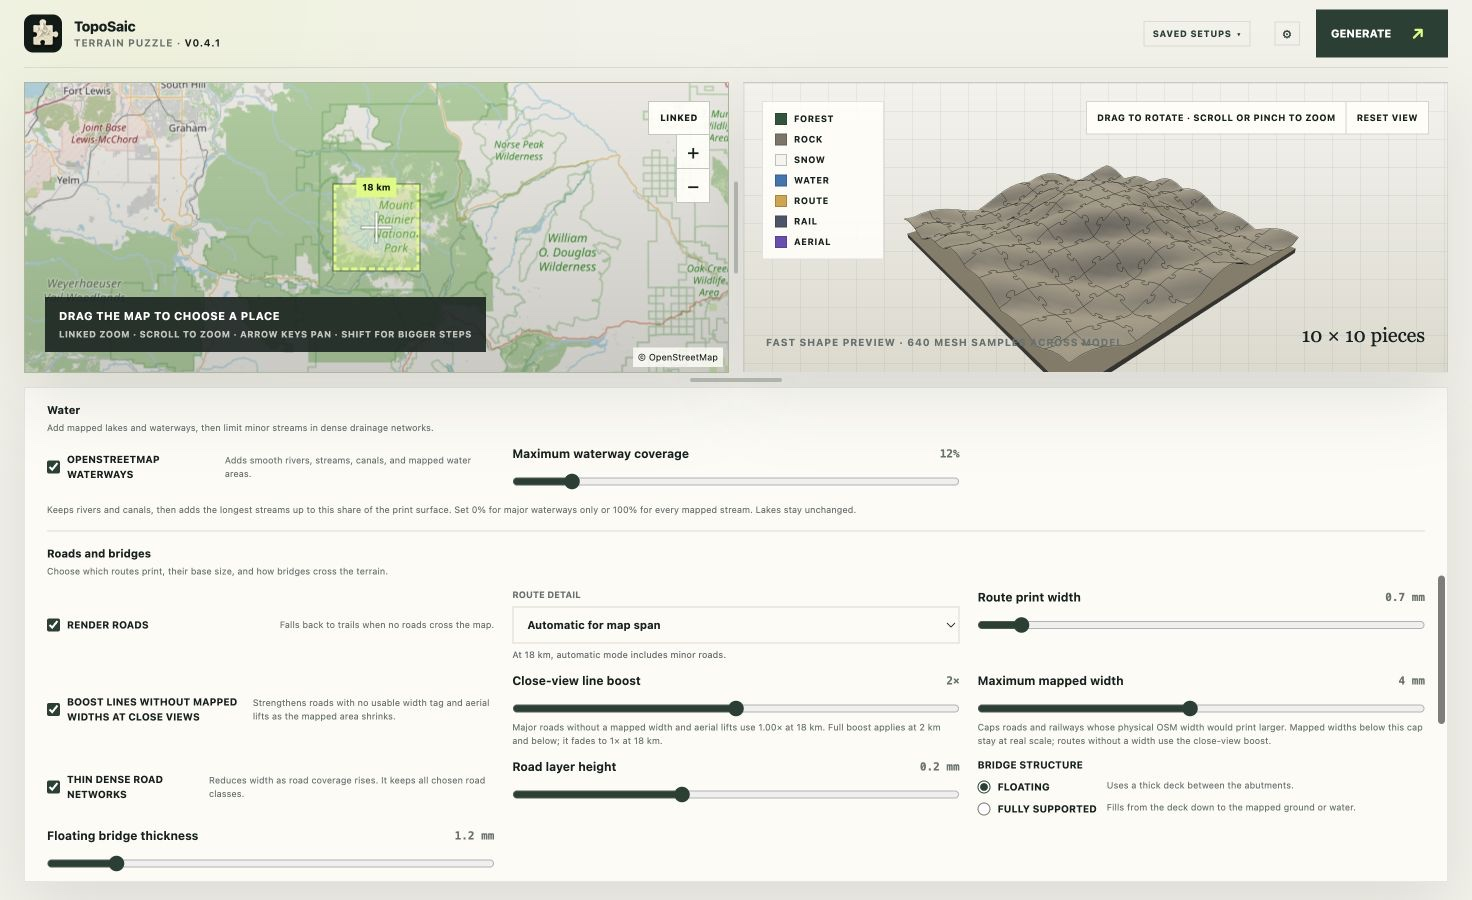
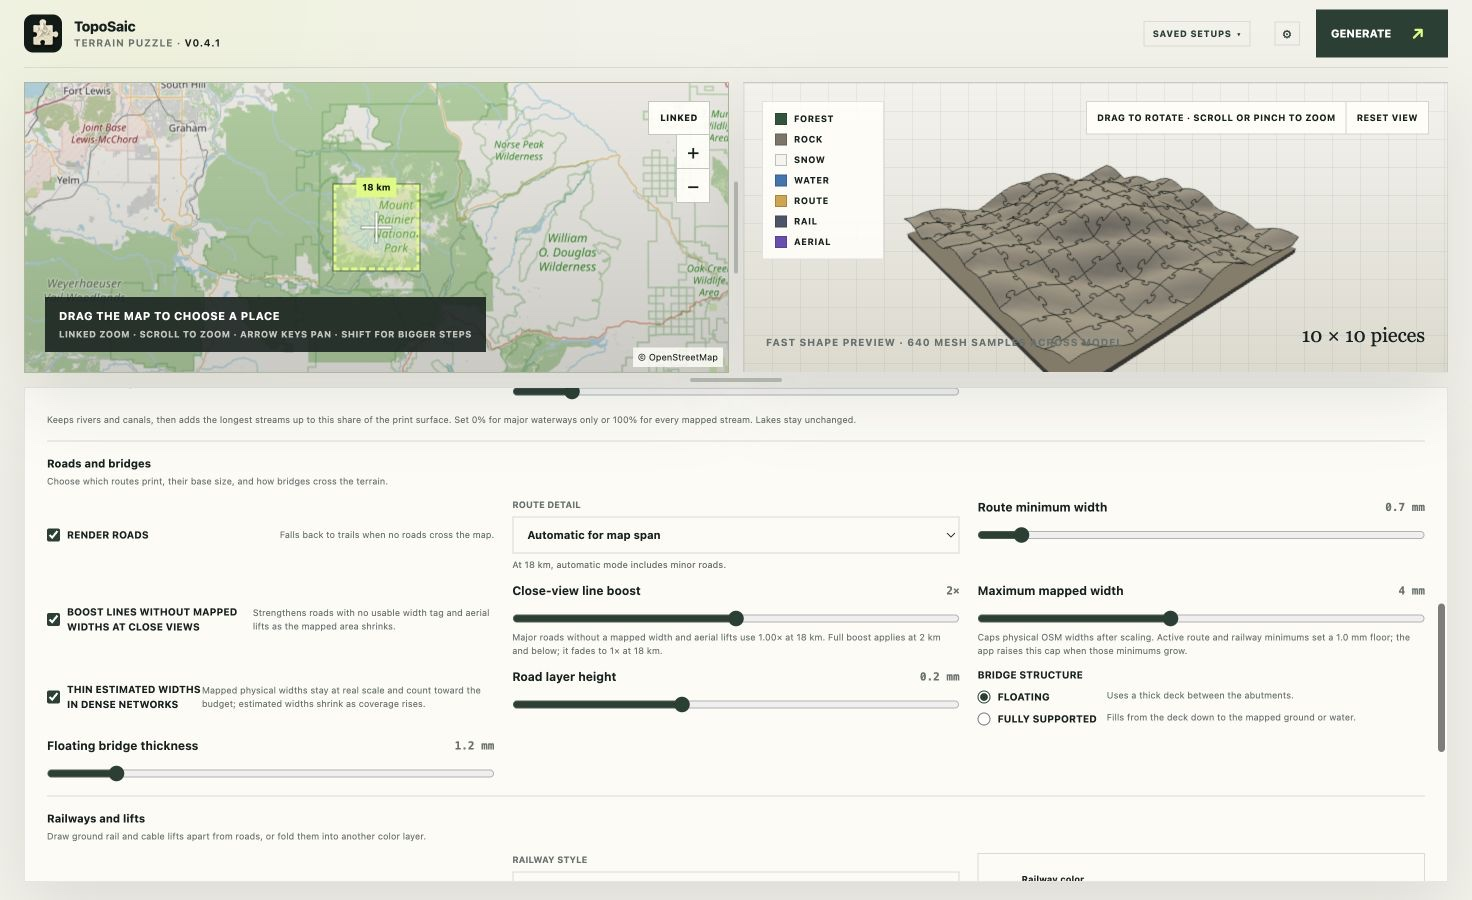
Fix mapped transport width controls

diff --git a/app/terrain/config.ts b/app/terrain/config.ts
@@ -5,6 +5,7 @@ import type { GenerationSpec } from "./contracts";
 export const DEFAULT_SAMPLES_ACROSS = 640;
 export const LINE_SCALE_CLOSE_SPAN_KM = 2;
 export const LINE_SCALE_WIDE_SPAN_KM = 18;
+export const MAX_ROAD_CLASS_WIDTH_SCALE = 1.4;
 
 export function closeViewLineScale(
   spanKm: number,
@@ -157,6 +158,41 @@ export const initialSpec: GenerationSpec = {
   trails: [],
 };
 
+export function minimumMappedWidthCap(
+  colorOutput: GenerationSpec["color_output"],
+) {
+  let minimum = 0.4;
+  if (colorOutput.roads_enabled) {
+    minimum = Math.max(
+      minimum,
+      colorOutput.road_width_mm * MAX_ROAD_CLASS_WIDTH_SCALE,
+    );
+  }
+  if (colorOutput.rail_enabled) {
+    minimum = Math.max(
+      minimum,
+      colorOutput.rail_style === "separate"
+        ? colorOutput.rail_width_mm
+        : colorOutput.road_width_mm,
+    );
+  }
+  // The matching sliders advance by tenths. Rounding up keeps their value
+  // valid even when floating-point multiplication lands just above a step.
+  return Math.ceil((minimum - Number.EPSILON) * 10) / 10;
+}
+
+export function normalizeMappedWidthCap(
+  colorOutput: GenerationSpec["color_output"],
+) {
+  return {
+    ...colorOutput,
+    maximum_mapped_width_mm: Math.max(
+      colorOutput.maximum_mapped_width_mm,
+      minimumMappedWidthCap(colorOutput),
+    ),
+  };
+}
+
 // Fill any field a saved spec is missing with the client default, so setups
 // saved before a field existed still recall cleanly.
 export function mergeSpecDefaults(saved: Partial<GenerationSpec>): GenerationSpec {
@@ -178,6 +214,10 @@ export function mergeSpecDefaults(saved: Partial<GenerationSpec>): GenerationSpe
     ...(legacyThickness === undefined ? {} : { thickness_mm: legacyThickness }),
   } as GenerationSpec["wall_mount"] & { pocket_depth_mm?: number };
   delete wallMount.pocket_depth_mm;
+  const colorOutput = normalizeMappedWidthCap({
+    ...initialSpec.color_output,
+    ...saved.color_output,
+  });
   return {
     ...initialSpec,
     ...saved,
@@ -194,7 +234,7 @@ export function mergeSpecDefaults(saved: Partial<GenerationSpec>): GenerationSpe
       ...saved.puzzle_retention,
     },
     wall_mount: wallMount,
-    color_output: { ...initialSpec.color_output, ...saved.color_output },
+    color_output: colorOutput,
     trails: saved.trails ?? [],
   };
 }

diff --git a/app/terrain/panels/surface-road-section.tsx b/app/terrain/panels/surface-road-section.tsx
@@ -3,6 +3,7 @@ import {
   LINE_SCALE_WIDE_SPAN_KM,
   automaticRoadDetail,
   closeViewLineScale,
+  minimumMappedWidthCap,
 } from "../config";
 import type { GenerationSpec } from "../contracts";
 import { RangeField } from "./range-field";
@@ -21,6 +22,7 @@ export function SurfaceRoadSection({
     spec.color_output.scale_line_widths_by_span,
     spec.color_output.close_view_width_multiplier,
   );
+  const mappedWidthFloor = minimumMappedWidthCap(spec.color_output);
 
   return (
     <SurfaceSection
@@ -69,7 +71,7 @@ export function SurfaceRoadSection({
             </small>
           </label>
           <RangeField
-            label="Route print width"
+            label="Route minimum width"
             value={spec.color_output.road_width_mm}
             unit=" mm"
             min={0.4}
@@ -110,11 +112,11 @@ export function SurfaceRoadSection({
         label="Maximum mapped width"
         value={spec.color_output.maximum_mapped_width_mm}
         unit=" mm"
-        min={0.4}
+        min={mappedWidthFloor}
         max={8}
         step={0.1}
         onChange={(value) => updateColor("maximum_mapped_width_mm", value)}
-        note="Caps roads and railways whose physical OSM width would print larger. Mapped widths below this cap stay at real scale; routes without a width use the close-view boost."
+        note={`Caps physical OSM widths after scaling. Active route and railway minimums set a ${mappedWidthFloor.toFixed(1)} mm floor; the app raises this cap when those minimums grow.`}
       />
       {spec.color_output.roads_enabled && (
         <>
@@ -127,9 +129,9 @@ export function SurfaceRoadSection({
                   updateColor("adaptive_road_widths", event.target.checked)
                 }
               />
-              <span>Thin dense road networks</span>
+              <span>Thin estimated widths in dense networks</span>
             </label>
-            <small>Reduces width as road coverage rises. It keeps all chosen road classes.</small>
+            <small>Mapped physical widths stay at real scale and count toward the budget; estimated widths shrink as coverage rises.</small>
           </div>
           <RangeField
             label="Road layer height"

diff --git a/tests/ui/controls.spec.ts b/tests/ui/controls.spec.ts
@@ -188,6 +188,9 @@ test("switches between the reflowed control panels", async ({ page }) => {
   const maximumMappedWidth = surfaceColors.getByRole("slider", {
     name: "Maximum mapped width",
   });
+  const routeMinimumWidth = surfaceColors.getByRole("slider", {
+    name: "Route minimum width",
+  });
   await expect(closeViewScaling).toBeChecked();
   await expect(closeViewBoost).toHaveValue("2");
   await expect(maximumMappedWidth).toHaveValue("4");
@@ -198,6 +201,8 @@ test("switches between the reflowed control panels", async ({ page }) => {
   await expect(closeViewBoost).toHaveValue("2.5");
   await maximumMappedWidth.fill("5.5");
   await expect(maximumMappedWidth).toHaveValue("5.5");
+  await routeMinimumWidth.fill("4");
+  await expect(maximumMappedWidth).toHaveValue("5.6");
   await closeViewScaling.uncheck();
   await expect(closeViewBoost).toBeHidden();
   await closeViewScaling.check();
@@ -457,7 +462,7 @@ test("switches railways on apart from roads and submits them", async ({
   const railStyle = surfaceColors.getByLabel("Railway style");
   const railColor = surfaceColors.getByLabel("Railway color");
   const railWidth = surfaceColors.getByRole("slider", {
-    name: "Railway print width",
+    name: "Railway minimum width",
   });
   const railLegend = page
     .getByLabel("Surface color legend")

diff --git a/app/terrain/studio.tsx b/app/terrain/studio.tsx
@@ -32,6 +32,7 @@ import {
   deriveHeightFrame,
   initialSpec,
   mergeSpecDefaults,
+  normalizeMappedWidthCap,
 } from "./config";
 import type {
   Artifact,
@@ -407,10 +408,13 @@ export function TerrainStudio() {
       value: GenerationSpec["color_output"][Key],
     ) => {
       setGeneratedPreview(null);
-      setSpec((current) => ({
-        ...current,
-        color_output: { ...current.color_output, [key]: value },
-      }));
+      setSpec((current) => {
+        const colorOutput = normalizeMappedWidthCap({
+          ...current.color_output,
+          [key]: value,
+        });
+        return { ...current, color_output: colorOutput };
+      });
     },
     [],
   );

diff --git a/app/terrain/panels/surface-rail-section.tsx b/app/terrain/panels/surface-rail-section.tsx
@@ -68,7 +68,7 @@ export function SurfaceRailSection({
                 </label>
               </div>
               <RangeField
-                label="Railway print width"
+                label="Railway minimum width"
                 value={spec.color_output.rail_width_mm}
                 unit=" mm"
                 min={0.4}

diff --git a/crates/toposaic-api/src/surface.rs b/crates/toposaic-api/src/surface.rs
@@ -1144,9 +1144,7 @@ fn route_density_scale(spec: &GenerationSpec, features: &[RouteFeature]) -> f32 
                     width.hypot(height)
                 })
                 .sum::<f32>()
-                * spec.color_output.road_width_mm
-                * feature.width_scale
-                * road_close_view_scale(spec, feature.width_scale)
+                * provisional_road_width_mm(spec, feature)
         })
         .sum::<f32>();
     let model_area = spec.width_mm * spec.height_mm();
@@ -1155,17 +1153,27 @@ fn route_density_scale(spec: &GenerationSpec, features: &[RouteFeature]) -> f32 
 }
 
 fn road_line_width_mm(spec: &GenerationSpec, feature: &RouteFeature, density_scale: f32) -> f32 {
-    let minimum_width = (spec.color_output.road_width_mm * feature.width_scale * density_scale)
-        .max(MINIMUM_LINE_WIDTH_MM);
-    let unknown_width = (spec.color_output.road_width_mm
-        * feature.width_scale
-        * road_close_view_scale(spec, feature.width_scale)
-        * density_scale)
-        .max(MINIMUM_LINE_WIDTH_MM);
+    let provisional_width = provisional_road_width_mm(spec, feature);
+    if feature.mapped_width_m.is_some() {
+        // A mapped physical width already expresses the road's scale. It
+        // contributes to the density budget, but thinning it would make the
+        // printed result cease to be the mapped width.
+        provisional_width
+    } else {
+        (provisional_width * density_scale).max(MINIMUM_LINE_WIDTH_MM)
+    }
+}
+
+fn provisional_road_width_mm(spec: &GenerationSpec, feature: &RouteFeature) -> f32 {
+    let class_width = spec.color_output.road_width_mm * feature.width_scale;
+    let minimum_width = class_width.max(MINIMUM_LINE_WIDTH_MM);
     feature
         .mapped_width_m
         .map(|width_m| mapped_line_width_mm(spec, minimum_width, width_m))
-        .unwrap_or(unknown_width)
+        .unwrap_or_else(|| {
+            (class_width * road_close_view_scale(spec, feature.width_scale))
+                .max(MINIMUM_LINE_WIDTH_MM)
+        })
 }
 
 fn rail_family_line_width_mm(
@@ -2311,8 +2319,10 @@ mod tests {
 
         // Ten ground metres across a 2 km, 180 mm model is 0.9 print mm.
         assert!((road_line_width_mm(&spec, &feature(Some(10.0)), 1.0) - 0.9).abs() < 0.0001);
+        assert!((road_line_width_mm(&spec, &feature(Some(10.0)), 0.35) - 0.9).abs() < 0.0001);
         // An unknown width keeps the existing 2x close-view boost.
         assert!((road_line_width_mm(&spec, &feature(None), 1.0) - 1.4).abs() < 0.0001);
+        assert!((road_line_width_mm(&spec, &feature(None), 0.35) - 0.49).abs() < 0.0001);
 
         spec.ground_span_km = 18.0;
         // A real width below the configured class floor never makes a road
@@ -2343,6 +2353,20 @@ mod tests {
         assert_eq!(route_density_scale(&spec, &[route()]), 1.0);
         let dense = (0..24).map(|_| route()).collect::<Vec<_>>();
         assert!(route_density_scale(&spec, &dense) < 0.5);
+
+        let close_spec = GenerationSpec {
+            ground_span_km: 0.25,
+            ..spec
+        };
+        let mapped_route = || RouteFeature {
+            points: vec![[0.0, 0.5], [1.0, 0.5]],
+            width_scale: 1.0,
+            mapped_width_m: Some(20.0),
+            path_or_trail: false,
+            bridge_elevations_m: None,
+        };
+        assert_eq!(route_density_scale(&close_spec, &[route(), route()]), 1.0);
+        assert!(route_density_scale(&close_spec, &[mapped_route(), mapped_route()]) < 1.0);
     }
 
     #[test]
